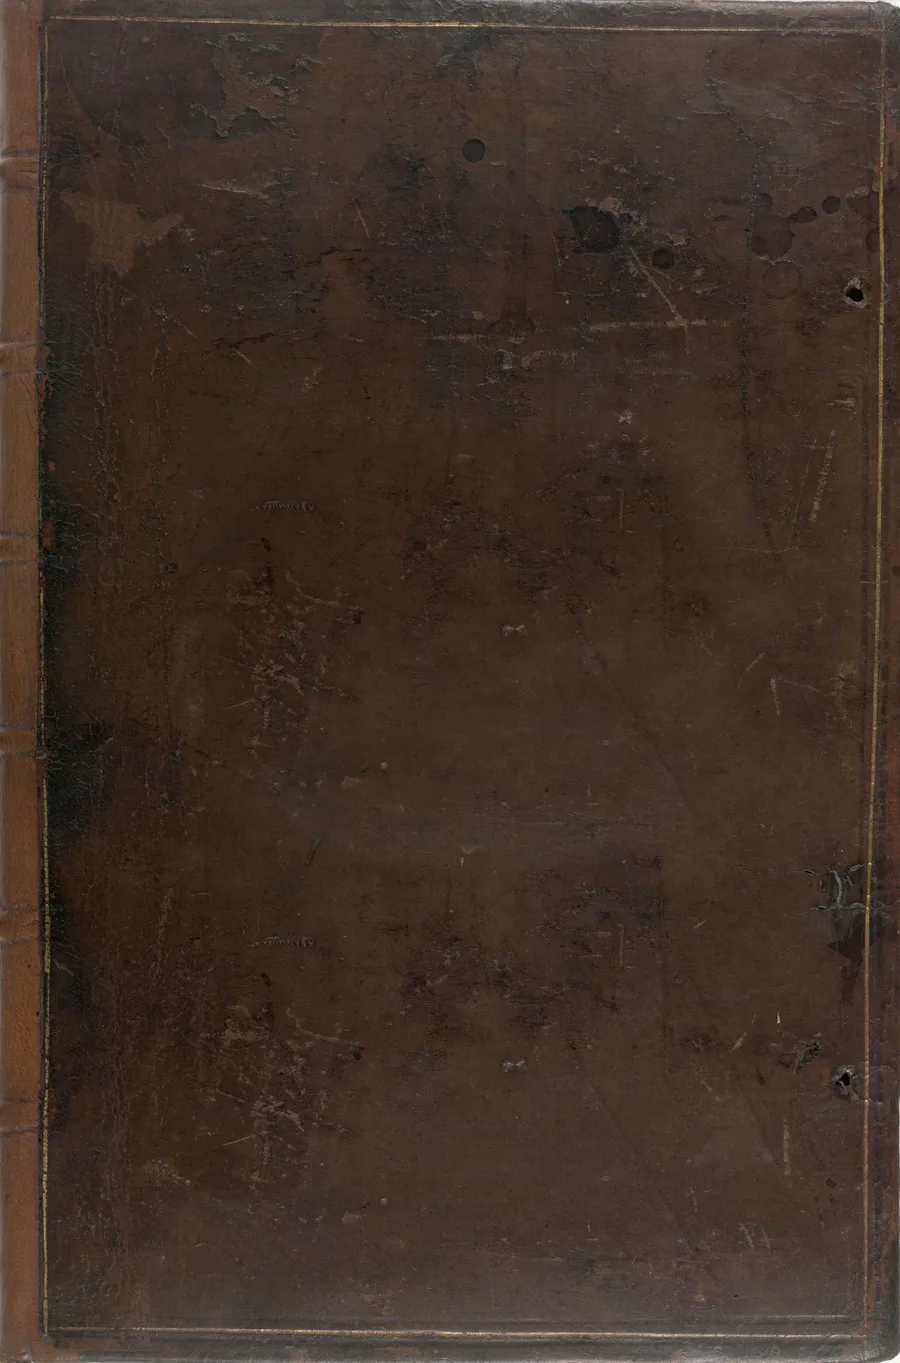
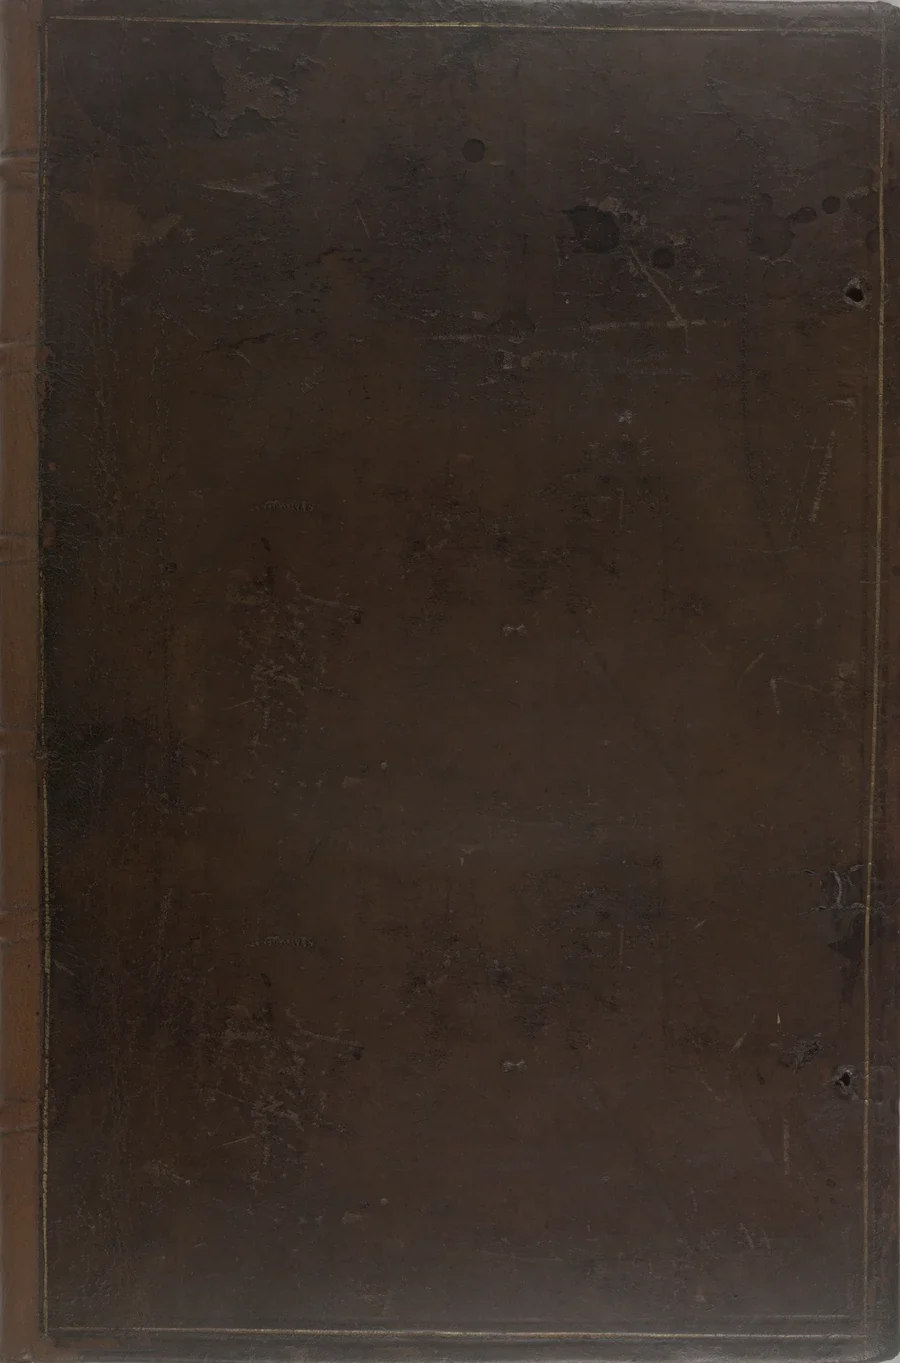
The book cover toned down: the leather calmer and a little darker, the page edges and ribbon muted (build 228)
Claude-Session: https://claude.ai/code/session_017HrTSG6ELWfe9mbBmDA55r

diff --git a/index.html b/index.html
@@ -48,9 +48,9 @@ body.opened .tleaf{transform:translateZ(2px) rotateY(-180deg)}
 .tcover{position:absolute;inset:calc(var(--u,1) * -5px) calc(var(--u,1) * -6px) calc(var(--u,1) * -6px) 0;background:#5c3a22 center/100% 100%;border-radius:2px 7px 7px 2px;backface-visibility:hidden;-webkit-backface-visibility:hidden;cursor:pointer;box-shadow:0 calc(var(--u,1) * 1px) calc(var(--u,1) * 2px) rgba(0,0,0,.5)}
 /* the block of pages under the board (build 210): its own layer, so the ribbon can come out from between the pages,
    under the cover; cream edges with the fine lines of the leaves, a little lower and to the right of the board */
-.tpages{position:absolute;inset:calc(var(--u,1) * -2px) calc(var(--u,1) * -10px) calc(var(--u,1) * -12px) calc(var(--u,1) * 2px);border-radius:2px 5px 5px 2px;background:repeating-linear-gradient(0deg,#d8c7a0 0 1px,#c4ae84 1px 2px);backface-visibility:hidden;-webkit-backface-visibility:hidden;box-shadow:0 calc(var(--u,1) * 14px) calc(var(--u,1) * 40px) rgba(0,0,0,.6),inset 0 0 0 1px rgba(90,60,25,.35);transition:opacity .4s}
+.tpages{position:absolute;inset:calc(var(--u,1) * -2px) calc(var(--u,1) * -10px) calc(var(--u,1) * -12px) calc(var(--u,1) * 2px);border-radius:2px 5px 5px 2px;background:repeating-linear-gradient(0deg,#ab9b7c 0 1px,#9a8a6c 1px 2px);backface-visibility:hidden;-webkit-backface-visibility:hidden;box-shadow:0 calc(var(--u,1) * 14px) calc(var(--u,1) * 40px) rgba(0,0,0,.6),inset 0 0 0 1px rgba(90,60,25,.35);transition:opacity .4s}
 body.opened .tpages{opacity:0}
-.tribbon{position:absolute;left:62%;bottom:calc(var(--u,1) * -34px);width:calc(var(--u,1) * 11px);height:calc(var(--u,1) * 30px);box-shadow:0 0 calc(var(--u,1) * 2px) rgba(40,15,5,.5);background:linear-gradient(90deg,#6e1712,#9a2620 45%,#7a1a15);clip-path:polygon(0 0,100% 0,100% 100%,50% 82%,0 100%);backface-visibility:hidden;-webkit-backface-visibility:hidden;transition:opacity .4s}
+.tribbon{position:absolute;left:62%;bottom:calc(var(--u,1) * -34px);width:calc(var(--u,1) * 11px);height:calc(var(--u,1) * 30px);box-shadow:0 0 calc(var(--u,1) * 2px) rgba(40,15,5,.5);background:linear-gradient(90deg,#5c1a15,#80281f 45%,#661c16);clip-path:polygon(0 0,100% 0,100% 100%,50% 82%,0 100%);backface-visibility:hidden;-webkit-backface-visibility:hidden;transition:opacity .4s}
 body.opened .tribbon{opacity:0}
 .tp{left:0;width:100%;border-radius:2px 0 0 2px;transform:rotateY(180deg);backface-visibility:hidden;-webkit-backface-visibility:hidden}
 .tc{left:50%;border-radius:0 2px 2px 0}
@@ -152,7 +152,7 @@ body.portrait #rot{display:block}
     <button class="btn" id="again">Walk again</button>
   </div>
   <button id="snd" aria-label="Sound on or off">♪</button>
-  <div id="build">build 227 · Nov 17 2026</div>
+  <div id="build">build 228 · Nov 17 2026</div>
 </div></div>
 <div id="rot">Turn your phone sideways for a bigger picture</div>
 <script>
@@ -2413,7 +2413,7 @@ for (const b of document.querySelectorAll('#levels .lv')) { b.classList.toggle('
   // Library, on Wikimedia Commons under CC0: "Of the consecration of the bishops in the Church of England - Upper cover
   // (c67h3)"), its owner's gilt arms taken out (filled with leather from lower on the same cover), the gilt fillet,
   // the wear and the spine's raised bands kept. The drawn cover above stays only until the photograph has loaded.
-  { const im = new Image(); im.onload = () => { el.style.backgroundImage = 'url(assets/cover-calf.webp?v=206)'; }; im.src = 'assets/cover-calf.webp?v=206'; }
+  { const im = new Image(); im.onload = () => { el.style.backgroundImage = 'url(assets/cover-calf.webp?v=228)'; }; im.src = 'assets/cover-calf.webp?v=228'; }
   el.onclick = () => { const o = document.getElementById('open'); if (o.style.visibility === 'visible' && o.style.display !== 'none') o.click(); };
 })();
 document.getElementById('open').onclick = () => {

diff --git a/story-lab.html b/story-lab.html
@@ -3,4 +3,4 @@
 <title>Pilgrim's Progress</title>
 <!-- The game moved to the main page in build 119. This page only sends old links (and Home Screen icons) on to it. -->
 <script>location.replace('./' + location.search + location.hash);</script>
-<p><a href="./">Pilgrim's Progress</a> <span id="build">build 227 · Nov 17 2026</span></p>
+<p><a href="./">Pilgrim's Progress</a> <span id="build">build 228 · Nov 17 2026</span></p>

diff --git a/CLAUDE.md b/CLAUDE.md
@@ -34,7 +34,7 @@ A gentle side-scrolling story walk for kids ages 7 to 10, following Bunyan's *Th
 ## Working with the owner
 
 - **Repo `Twhidbey/pilgrims-progress`, branch `main`. Pushing `main` publishes the game** (GitHub Pages, https://twhidbey.github.io/pilgrims-progress/, 1 to 2 minutes). Commit and push after every change, then tell the owner it is live; a phone may show an old copy, so suggest `?v=N`. **Always give two links when a build is live (owner, build 187: "can you output [the editor link] by default and make note in notes"):** the game, `https://twhidbey.github.io/pilgrims-progress/?v=N`, and the editor link, `https://twhidbey.github.io/pilgrims-progress/?edit&v=N` (skip arrows, see Testing); add `&level=2` or `&level=3` when the change is in that level.
-- **Build stamp** (`id="build"`, bottom right): `build N · date` in `index.html` and `story-lab.html`. Bump N on **every** push that changes the game, so one number means one push. Keep the form `id="build">... build N` (the page's self-update reads it). **Currently build 227.** The two script tags at the end of `index.html` carry `?v=N` (`slough.js?v=`, `hill.js?v=`): set them to the build that last changed each file, so phones fetch the new copy. Several chats push at once: `git fetch` and rebase on `origin/main` just before pushing, and take the next number after whatever is there.
+- **Build stamp** (`id="build"`, bottom right): `build N · date` in `index.html` and `story-lab.html`. Bump N on **every** push that changes the game, so one number means one push. Keep the form `id="build">... build N` (the page's self-update reads it). **Currently build 228.** The two script tags at the end of `index.html` carry `?v=N` (`slough.js?v=`, `hill.js?v=`): set them to the build that last changed each file, so phones fetch the new copy. Several chats push at once: `git fetch` and rebase on `origin/main` just before pushing, and take the next number after whatever is there.
 - **SPEND AS LITTLE AS POSSIBLE (owner, build 106: "can you minimize spending - it's been pretty expensive for me last few days").** Video about 56 cents a try; a picture about 15 cents (`gemini-3-pro-image`); voice about a cent a line. **Before any paid call: say the cost and wait for a yes; keep the running total in `HANDOFF.md`.** Ways to save, in order: (1) do it in code first (breathing, sway, cloth and hair movement, small moves by warping a still, mirroring, tinting, reusing a figure); (2) build first and last frames from frames we already have; (3) draft pictures on `gemini-2.5-flash-image` (about a third of the price), the pro model only for the final; (4) show the owner a still before any video; (5) get two clips from one video (play backwards or back and forth); (6) write video prompts that pass the safety filter first time (no "sunk", "drowning", "thrashing", "desperate", "frightened"; say "thick sticky mud", "heaves", "cross and grumbling"); (7) a shorter video if the API offers one cheaper (not yet checked).
 - **Keep `CLAUDE.md` and `HANDOFF.md` updated after every change.** The repo is public: no names, emails or other personal details in notes, code or commits.
 - **Players:** kids 7 to 10, mostly on an iPhone. Gentle: no lives, no game over, read-aloud words, short simple sentences.
@@ -85,7 +85,7 @@ A gentle side-scrolling story walk for kids ages 7 to 10, following Bunyan's *Th
 - **The page updates itself** (`freshCopy`): it fetches its newest copy with `cache: 'no-store'` and reloads once onto `?v=N` if the build is higher. Keep that reload inside the same page, or the Home Screen app shows a browser bar.
 - **Home Screen app** (build 137): the manifest (`display` fullscreen, `start_url`/`scope` "./"), the icon and the iPhone tags. An icon keeps the settings it was made with: an old icon must be deleted and added again from the main link.
 - **The title page is the book (build 187; owner: "when i open pilgrims progress it shows work ... in worldly wise level it flashes between old mountain and new ... better if the opening page was something neutral and didn't reveal the world ... logo of the app should also be something neutral like a book"):** no level's scene shows behind the title any more (`SL.title()`/`HL.title()` are no longer called at boot). On a dark ground with one warm glow stands the title page as first printed in 1678 (Nath. Ponder; the long title, "I have used Similitudes, Hos. 12. 10.", red-ruled frame, IM Fell type, laid paper made in code: `paperPages()`); **Since build 188 (owner: "shouldn't menu be cover of book? Before we open it") the title shows the closed book first**: a brown calf cover like the app icon (blind-tooled frames, a tooled lozenge with a small gold cross, a red ribbon below; made in code, `coverArt()`, `.tcover`, `.tribbon`); "Open the book" (or a touch on the cover) swings the cover open on its spine (`.tleaf`, rotated -180 degrees), and the title page, printed on the cover's inside face (`.tp`, its back face), lands on the left beside "THE CONTENTS." (`.tc`, `body.opened`), with the levels as contents lines (`#levels .lv`, the child's level marked with a pointing hand) and the book's first sentence (`{10}`) below. Choosing a level fades the book into the level. Sizes use `--u` (picture width / 960, set in `fit()`). **Each new level: add its line to the contents.** The app icon (`assets/icon-180.png`, `icon-512.png`, `?v=` on their links) is a closed calf-bound book with blind-tooled frames, a small gold cross in a tooled lozenge and a red ribbon, drawn in code (build 187; the script was in the session scratchpad; easy to redo with PIL).
-- **A real leather cover (build 206; owner: "make cover of pilgrim book have a super realistic leather look like an old book (no need for cross, per se) ... find some images online (cheaper!!)"):** a photograph of a real 17th-century English calf binding from the British Library, on Wikimedia Commons under **CC0** (no attribution needed): "Of the consecration of the bishops in the Church of England - Upper cover (c67h3).jpg". Cropped to the leather, its first owner's gilt coat of arms taken out (filled with leather from lower on the same cover, tone-matched, soft-edged; the patch must not reach the gilt fillet at the bottom), the gilt fillet, wear, stains and the spine's raised bands kept: `assets/cover-calf.webp` (900 wide, about 100 KB), laid on `.tcover` once it has loaded (the drawn cover of build 188 stands in until then). The app icons (`icon-180/512`, `icon-edit-180/512`) were made again from the same photo (no cross). **To fetch from Commons the environment now allows `commons.wikimedia.org` and `upload.wikimedia.org`** (the owner approved); thumbnails come from `thumb.wikimedia.org`, which is NOT allowed: fetch originals, slowly (it answers 429 to quick runs). The British Library's "Upper cover (c..)" photographs on Commons are all CC0 and a good source for any old book or leather.
+- **A real leather cover (build 206; owner: "make cover of pilgrim book have a super realistic leather look like an old book (no need for cross, per se) ... find some images online (cheaper!!)"):** a photograph of a real 17th-century English calf binding from the British Library, on Wikimedia Commons under **CC0** (no attribution needed): "Of the consecration of the bishops in the Church of England - Upper cover (c67h3).jpg". Cropped to the leather, its first owner's gilt coat of arms taken out (filled with leather from lower on the same cover, tone-matched, soft-edged; the patch must not reach the gilt fillet at the bottom), the gilt fillet, wear, stains and the spine's raised bands kept: `assets/cover-calf.webp` (900 wide, about 100 KB), laid on `.tcover` once it has loaded (the drawn cover of build 188 stands in until then). The app icons (`icon-180/512`, `icon-edit-180/512`) were made again from the same photo (no cross). **To fetch from Commons the environment now allows `commons.wikimedia.org` and `upload.wikimedia.org`** (the owner approved); thumbnails come from `thumb.wikimedia.org`, which is NOT allowed: fetch originals, slowly (it answers 429 to quick runs). The British Library's "Upper cover (c..)" photographs on Commons are all CC0 and a good source for any old book or leather. **Build 228, quieter (owner: "Book cover is too loud - can we tone down slightly and make look more consistent with rest of game"):** the photograph's blotches and scratches calmed (its middle-size detail at .62, fine grain at .7 about a 60 px blur), a little less colour (.9), a soft darkening toward the edges and 5% darker overall: done once to `assets/cover-calf.webp` (`?v=228`; the original is in git before this build); the page block's edges a muted tan (`#ab9b7c`/`#9a8a6c`, was a bright cream) and the ribbon a deeper red. The app icons are unchanged.
 - **The editor as its own Home Screen app (build 193; owner: "I want an editor link that I can put on my phone Home Screen and it updates with changes"):** the main manifest starts the app at "./", so an icon made from `?edit` used to open the plain game. Now a small script in `index.html`'s head, when the address has `?edit`, points the page at `edit.webmanifest` (start `./?edit`, its own `id`, name "PP Editor") and the editor icon (`assets/icon-edit-180.png`, `-512.png`: the book icon with a round dark badge and the two gold arrows). It updates itself like the game (`freshCopy` keeps `?edit`). **Since build 195 (owner: the skip buttons did not show on the iPhone) install from `edit.html`** (https://twhidbey.github.io/pilgrims-progress/edit.html): a small page whose head carries the editor's manifest and icon with no script, with "Open the editor"; if the phone opens it as the app it goes straight on to `./?edit`. The editor's label now shows on the book cover too ("editor on · the arrows show once a level begins"), so it is plain whether a link is in editor mode. The main manifest now has `"id": "./"` too.
 - **Title and end cards** (build 144, owner: on an upright iPhone the title "too big and overlapping"): sized by the picture, not the screen. `fit()` sets `--s` on `#stage` (picture width / 960, times 1.4 upright and 1.12 sideways, at most 1.25); `.card h1`, `h2`, `p`, `.btn` and the build stamp use `calc(var(--s) * Npx)`. "Turn your phone sideways" sits 22 px below the picture's real bottom edge.
 - **Upright check (build 178):** every screen of all three levels (words, choices, end cards, title) was checked on an emulated iPhone 13 held upright and sideways for text outside the picture or overlapping: none. The tray of things he carries is small held upright; its touch area is wider than its drawing.

diff --git a/HANDOFF.md b/HANDOFF.md
@@ -4,6 +4,8 @@ The game is `index.html` (Level 1 in the page, Level 2 in `slough.js`; no build 
 
 ## START HERE (rewritten at build 140, Nov 16 2026)
 
+**Build 228 (older small-tweaks chat): the book cover toned down** (the leather photo calmer and a little darker, the page edges and ribbon muted). Level 3's voices: `tools/make-voice.py` found every line already recorded (89 of 89); nothing spent.
+
 **Level 4 and the shared gate (small-tweaks chat):** the wicket-gate is ONE gate for Levels 3 and 4, still being changed in the Level 3 chat; Level 4 must reuse it, not copy it (see "THE GATE IS SHARED" in `CLAUDE.md`). Level 4's rooms each after a painting, two darker rooms behind a contents-page switch: mood boards in `concept/level4-moodboard*.jpg`, the gate in the Prodigal Son's colours `concept/level4-gate-prodigal.jpg`. Not built.
 
 **HANDOVER FROM THE SMALL-TWEAKS CHAT (builds 143 to 211, Nov 17 2026), for the next Opus chat. Nothing in it spent money.**
